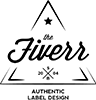
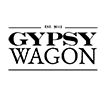
lel

diff --git a/public/style.css b/public/style.css
@@ -82,6 +82,10 @@ p{
     margin-top:5px;
 }
 
+.stockist_logo{
+margin-top: 20px;
+}
+
 .generic_input{
     padding: 10px;
     background-color: #f2f2f2;
@@ -120,7 +124,7 @@ p{
     margin-top: 15px;
     color:white;
     width: 100%;
-    background-color: #07ab95 !important ;
+    background-color: #12cab2 !important ;
     text-transform: uppercase;
 }
 
@@ -205,7 +209,7 @@ p{
 #search_input{
     border: 0px;
     height: 33px;
-    border-bottom: 2px solid #07ab95;
+    border-bottom: 2px solid #12cab2;
     border-radius: 0px;
     width:80%;
 }
@@ -215,7 +219,7 @@ p{
     height: 35px;
     width: 35px;
     border-radius: 0px;
-    background-color: #07ab95;
+    background-color: #12cab2;
     border: 0px;
     padding: 10px;
 }
@@ -230,7 +234,7 @@ p{
     width: 56% !important;
     margin-bottom: 9px;
 
-    background-color: #07ab95 !important ;
+    background-color: #12cab2 !important ;
 }
 
 #stockist_container > form{
@@ -576,7 +580,7 @@ p{
 .transparent-btns_here a,
 .large-btns_here a {
     background: #222;
-    background-color:#07ab95;
+    background-color:#12cab2;
   }
 
 
@@ -672,7 +676,7 @@ p{
 }
 
 .action_button{
-    background-color: #07ab95;
+    background-color: #12cab2;
     display: inline-block;
     color: white;
     width: 170px;
@@ -742,8 +746,8 @@ a:hover{
 }
 
 .pagination>.active>span{
-    background-color:#07ab95;
-    border-color:#07ab95;
+    background-color:#12cab2;
+    border-color:#12cab2;
 }
 
 .product_nav{
@@ -753,7 +757,7 @@ a:hover{
 
 .nav-tabs>li.active>a, .nav-tabs>li.active>a:focus, .nav-tabs>li.active>a:hover{
     border:none;
-    border-bottom: 3px solid #07ab95;
+    border-bottom: 3px solid #12cab2;
     border-bottom-color: solid;
 }
 
@@ -802,7 +806,7 @@ a:hover{
 }
 
 .view_product{
-    background-color:#07ab95;
+    background-color:#12cab2;
     color:white;
     text-transform: uppercase;
     padding-top:10px;
@@ -835,6 +839,7 @@ padding: 0px;
 .proud_to{
 /*    display:inline-block;*/
     text-align: center;
+    margin-top: 20px;
 
 }
 
@@ -852,7 +857,7 @@ padding: 0px;
 .green_link{
     text-decoration:underline;
     display: block;
-    color:#07ab95;
+    color:#12cab2;
     text-align: center;
     margin-top:40px;
 }
@@ -875,11 +880,21 @@ padding-bottom: 40px;
     margin-top:60px;
 }
 
+.footer_flowers{
+background-color: white;
+margin-bottom: 40px;
+padding-top: 40px;
+padding-right: 0px;
+padding-left: 0px;
+}
+
 .footer{
     background-color: #ebebeb;
-    padding-top:50px;
-    margin-top:60px;
+    padding-top:0px;
+    margin-top:0px;
     padding-bottom:70px;
+    padding-right: 0px;
+    padding-left: 0px;
 }
 
 .footer ul{
@@ -910,7 +925,7 @@ padding-bottom: 40px;
 }
 
 .checkout_button2{
-    background-color: #07ab95;
+    background-color: #12cab2;
     color: white;
     height: 30px;
     width: 130px;
@@ -965,13 +980,13 @@ padding-bottom: 40px;
 .add_to_cart{
     border-radius: 0px;
     width: 100%;
-    background-color: #07ab95;
+    background-color: #12cab2;
     color:white;
 }
 
 .green_text{
     font-size:1.7em;
-    color:#07ab95;
+    color:#12cab2;
     border-top: 4px solid #f4f4f4;
 }
 
@@ -988,15 +1003,16 @@ padding-bottom: 40px;
 }
 
 .footer_email_form input[name='email']{
-    border:2px solid #07ab95;
+    border:2px solid #12cab2;
     padding: 10px;
     margin-bottom:30px;
 }
 
 .green_button{
-    background-color: #315959;
+    background-color: #12cab2;
     padding:3px;
     margin-bottom:30px;
+    margin-top: 20px;
     border: 0px;
     color: white;
     padding: 10px;

diff --git a/resources/views/index.blade.php b/resources/views/index.blade.php
@@ -66,13 +66,13 @@
         <div class="align-center stockists">
             <div class="col-md-1"></div>
             <div class="col-md-2"></div>
-            <div class="col-md-2">
+            <div class="col-md-2 stockist_logo">
                 <img src="images/stockist_1.png" />
             </div>
-            <div class="col-md-2">
+            <div class="col-md-2 stockist_logo">
                 <img src="images/stockist_2.png" />
             </div>
-            <div class="col-md-2">
+            <div class="col-md-2 stockist_logo">
                 <img src="images/stockist_3.png" />
             </div>    
             <div class="col-md-2"></div>

diff --git a/resources/views/footer.blade.php b/resources/views/footer.blade.php
@@ -1,4 +1,16 @@
 <div class="col-sm-12 footer">
+    <div class="col-sm-12 footer_flowers"> 
+        <div class="col-sm-1"></div>
+        <div class="col-sm-2">
+            <img src="images/neven2.png" />
+        </div>
+        <div class="col-sm-6"></div>
+        <div class="col-sm-2">
+            <img src="images/neven1.png" />
+        </div>
+        <div class="col-sm-1"></div>
+
+    </div>
     <div class="wrapper">
         <div class="col-sm-3">
             <ul>
